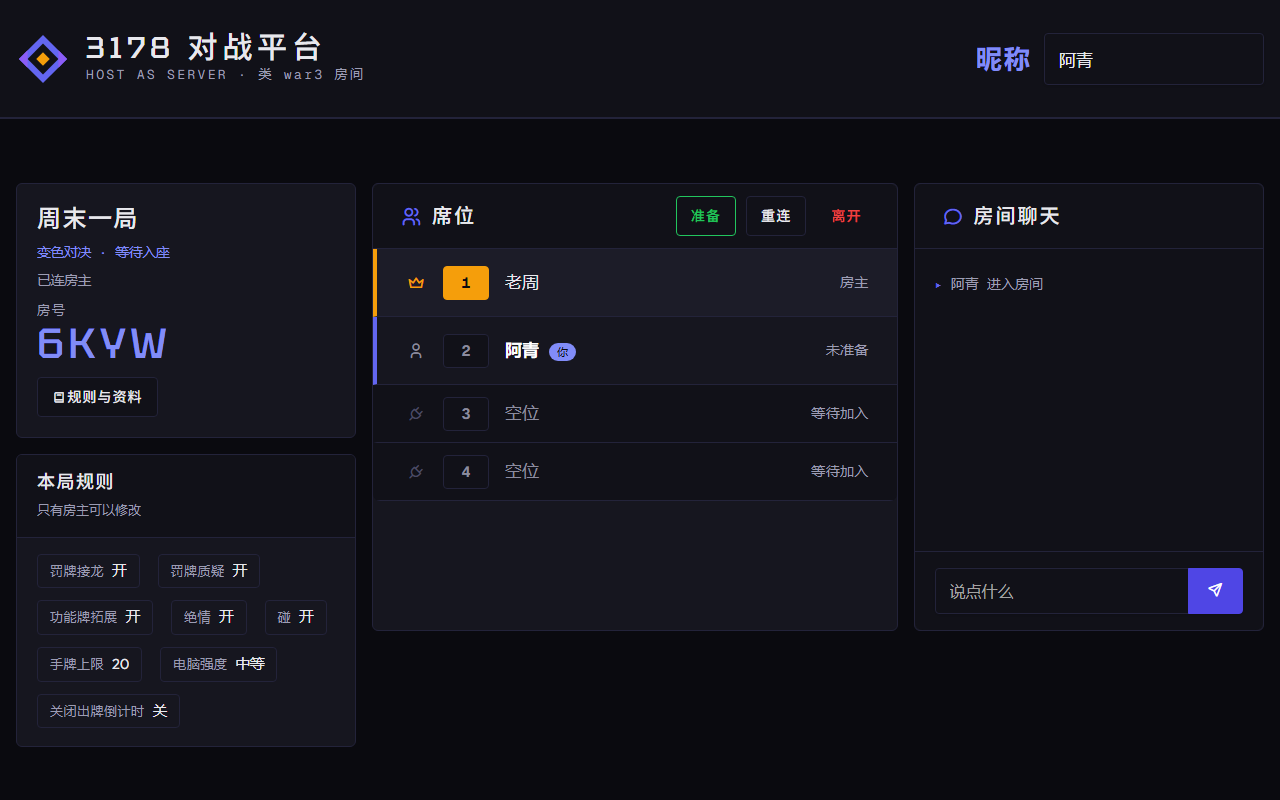
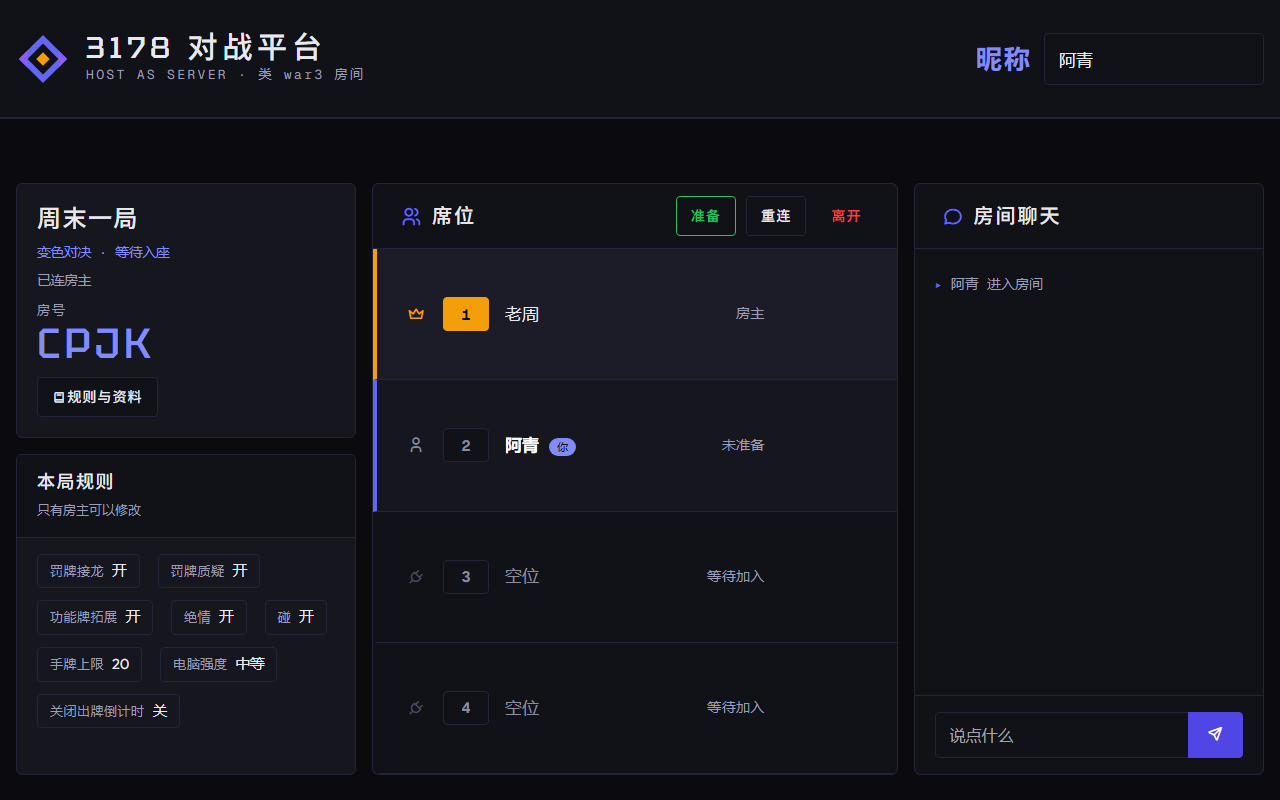
feat: 房间三栏等高与席位行内转交

diff --git a/packages/client/public/style.css b/packages/client/public/style.css
@@ -417,9 +417,10 @@ option:disabled {
 /* ---------- 房间布局：lobby 左栏房信息 + 房主台，右侧席位与聊天并排；playing 对局区拉通 ---------- */
 .room-layout { margin-left: 0; margin-right: 0; }
 .room-layout:not(.is-playing) {
+  --bp-room-col-h: clamp(520px, calc(100vh - 208px), 760px);
   display: grid;
   grid-template-columns: minmax(300px, 340px) minmax(0, 3fr) minmax(0, 2fr);
-  align-items: start;
+  align-items: stretch;
   gap: 16px;
 }
 .room-layout:not(.is-playing) #room-left {
@@ -429,8 +430,25 @@ option:disabled {
   flex-direction: column;
   gap: 16px;
   min-width: 0;
+  height: var(--bp-room-col-h);
 }
 .room-left-slot:empty { display: none; }
+.room-layout:not(.is-playing) #room-left:not(.has-console) { height: auto; }
+.room-layout:not(.is-playing) #room-left-host {
+  flex: 1 1 auto;
+  min-height: 0;
+  display: flex;
+}
+.room-layout:not(.is-playing) #room-left-host .host-console {
+  flex: 1 1 auto;
+  min-height: 0;
+}
+.room-layout:not(.is-playing) #room-left-host .host-console-body {
+  flex: 1 1 auto;
+  align-content: start;
+  min-height: 0;
+  overflow-y: auto;
+}
 .room-layout:not(.is-playing) .room-head {
   display: grid;
   grid-template-columns: minmax(0, 1fr) auto;
@@ -452,17 +470,22 @@ option:disabled {
   grid-column: 2;
   grid-row: 1;
   min-width: 0;
-  height: clamp(420px, 56vh, 600px);
+  height: var(--bp-room-col-h);
 }
 .room-layout:not(.is-playing) #chat-panel {
   grid-column: 3;
   grid-row: 1;
   min-width: 0;
-  height: clamp(420px, 56vh, 600px);
+  height: var(--bp-room-col-h);
 }
 .room-layout:not(.is-playing) #seat-column > .bp-panel,
 .room-layout:not(.is-playing) #chat-panel > .bp-panel { height: 100%; }
-.room-layout:not(.is-playing) #seat-grid { overflow-y: auto; }
+.room-layout:not(.is-playing) #seat-grid {
+  display: grid;
+  flex: 1 1 auto;
+  grid-auto-rows: minmax(var(--bp-row), 1fr);
+  overflow-y: auto;
+}
 .room-layout:not(.is-playing) #chat-panel .chat-log { flex: 1 1 auto; min-height: 0; }
 .room-layout:not(.is-playing) #room-left .host-console-head {
   flex-direction: column;
@@ -598,7 +621,9 @@ option:disabled {
 @media (max-width: 991.98px) {
   .room-head { flex-wrap: wrap; gap: 18px 28px; padding: 20px; }
   .room-layout:not(.is-playing) { grid-template-columns: minmax(0, 1fr); }
-  .room-layout:not(.is-playing) #room-left { grid-column: 1; grid-row: 1; }
+  .room-layout:not(.is-playing) #room-left { grid-column: 1; grid-row: 1; height: auto; }
+  .room-layout:not(.is-playing) #room-left-host { flex: none; }
+  .room-layout:not(.is-playing) #room-left-host .host-console-body { flex: none; overflow: visible; }
   .room-layout:not(.is-playing) #seat-column { grid-column: 1; grid-row: 2; height: clamp(340px, 48vh, 520px); }
   .room-layout:not(.is-playing) #chat-panel { grid-column: 1; grid-row: 3; height: clamp(340px, 48vh, 520px); }
   .host-console.has-rules.is-host .host-console-body { grid-template-columns: minmax(0, 1fr); }
@@ -639,6 +664,15 @@ option:disabled {
 }
 .seat-name { flex: 1; min-width: 0; overflow-wrap: anywhere; }
 .seat-state { font: 13.5px/1 var(--bp-font-mono); letter-spacing: 0.06em; color: var(--bp-dim-hi); }
+/* 行内控件按固定列对齐：状态列同宽，右侧永远给动作留一列。 */
+.room-layout:not(.is-playing) .seat {
+  display: grid;
+  grid-template-columns: 22px 46px minmax(0, 1fr) 72px minmax(88px, auto);
+}
+.room-layout:not(.is-playing) .seat-state { text-align: right; white-space: nowrap; }
+.room-layout:not(.is-playing) .seat-transfer-button,
+.room-layout:not(.is-playing) .seat-ai-difficulty { justify-self: end; }
+
 /* 左轨优先级：身份（房主）> 状态（已准备）> 角色默认。靠特异度，不靠书写顺序。 */
 .seat-player { border-left-color: var(--bp-accent); }
 .seat-ai { border-left-color: var(--bp-violet); border-left-style: dashed; }
@@ -661,7 +695,7 @@ option:disabled {
 .is-offline { color: var(--bp-dim); }
 .is-offline .seat-state { color: var(--bp-bad); }
 .seat-empty {
-  min-height: 58px;
+  min-height: var(--bp-row);
   color: var(--bp-dim);
   background: var(--bp-panel-alt);
 }
@@ -889,3 +923,9 @@ option:disabled {
   border-radius: 4px;
 }
 .seat-ai-difficulty:disabled { opacity: 0.75; }
+.seat-transfer-button {
+  flex: none;
+  height: 32px;
+  padding: 0 10px;
+  font-size: 13px;
+}

diff --git a/packages/client/src/app.ts b/packages/client/src/app.ts
@@ -389,7 +389,10 @@ export class PlatformApp {
     });
     on('btn-send', 'click', () => this.sendChat());
     on('btn-leave', 'click', () => {
-      if (isHost(this.view)) return this.setStatus('你是房主：要么移交房主，要么关闭房间，不能直接走。');
+      if (isHost(this.view)) {
+        this.command({ type: 'hostClose', reason: '房主解散房间' });
+        return;
+      }
       this.command({ type: 'seatLeave' });
       this.leaveToLobby();
     });
@@ -665,6 +668,7 @@ export class PlatformApp {
     const host = isHost(this.view);
     const show = Boolean(this.view.room) && (Boolean(spec) || host);
     panel.classList.toggle('hidden', !show);
+    el(this.doc, 'room-left')?.classList.toggle('has-console', show);
     panel.classList.toggle('has-rules', Boolean(spec));
     panel.classList.toggle('is-host', host);
     el(this.doc, 'rule-config')?.classList.toggle('hidden', !spec);
@@ -786,6 +790,20 @@ export class PlatformApp {
       this.command({ type: 'hostSeat', op: 'setOptions', seatId: seat.seatId, options });
     });
     row.append(select);
+  }
+
+  private attachSeatTransfer(row: HTMLElement, seat: SeatView): void {
+    if (!isHost(this.view) || this.view.phase !== 'lobby' || seat.role !== 'player') return;
+    const button = this.doc.createElement('button');
+    button.type = 'button';
+    button.className = 'btn btn-sm btn-outline-secondary seat-transfer-button';
+    button.textContent = '转交房主';
+    button.title = `把房主转交给 ${seat.name}`;
+    button.setAttribute('aria-label', `把房主转交给 ${seat.name}`);
+    button.addEventListener('click', () => {
+      this.command({ type: 'hostTransfer', seatId: seat.seatId });
+    });
+    row.append(button);
   }
 
   private currentReferenceManifest(): GameManifest | null {
@@ -1083,6 +1101,7 @@ export class PlatformApp {
       const row = pushRow(classes.join(' '), seat.slot, seat.name, this.seatStateText(seat), seatLabel(seat), icon);
       this.attachSeatColor(row, seat);
       this.attachAiDifficulty(row, seat);
+      this.attachSeatTransfer(row, seat);
     }
     for (const slot of emptySlots(this.view)) {
       pushRow('seat seat-empty', slot, '空位', '等待加入', `${slot} 号位空着`, 'ti-plug');
@@ -1149,6 +1168,14 @@ export class PlatformApp {
           ? `等准备：${blockers.unready.join('、')}`
           : '开始对局';
     }
+    const leaveButton = el(this.doc, 'btn-leave') as HTMLButtonElement | null;
+    if (leaveButton) {
+      const host = isHost(this.view);
+      leaveButton.textContent = host ? '解散房间' : '离开';
+      leaveButton.title = host ? '关闭房间，所有人回到大厅' : '离开座位，回到大厅';
+    }
+    // lobby 用席位行里的「转交房主」；对局中席位压成状态条，退回房主台的下拉。
+    el(this.doc, 'host-transfer-control')?.classList.toggle('hidden', this.view.phase === 'lobby');
     const readyButton = el(this.doc, 'btn-ready') as HTMLButtonElement | null;
     const seat = mySeat(this.view);
     if (readyButton) {

diff --git a/packages/client/public/index.html b/packages/client/public/index.html
@@ -190,7 +190,7 @@
                           <div class="host-actions-body d-grid gap-3">
                             <button id="btn-add-ai" class="btn btn-outline-secondary"><i class="ti ti-robot me-2" aria-hidden="true"></i>加一个电脑位</button>
 
-                            <div>
+                            <div id="host-transfer-control">
                               <label class="form-label" for="transfer-target">移交房主</label>
                               <div class="input-group">
                                 <select id="transfer-target" class="form-select"></select>

diff --git a/CONTEXT.md b/CONTEXT.md
@@ -29,7 +29,7 @@
 - 包边界：`@lizardon386/core-abi`（游戏 ABI）· `@bp/protocol`（wire）· `@lizardon386/pack-format`（.bpmap）· `@lizardon386/game-sdk`（公共门面 + game-kit）· `@lizardon386/sdk-tools`（bpmap CLI / doctor / 模板）。平台包仍是 `@bp/server`、`@bp/client`、`@bp/hostd`、`@bp/testkit`。
 - 游戏下发与兼容闸：`/api/games`、`/games/<id>/*`、客户端 SHA-256 校验（无 `crypto.subtle` 时纯 JS 回退）、`sandbox=allow-scripts` iframe；`mode` / `apiVersion` 写入 `.bpmap` 包头，宿主只加载 `turn` / `1`，`/api/version` 与 `bpmap doctor` 用同一组常量；`fixture-kit` 覆盖事件流 / 资源 / 拒绝。
 - **座位级选项**（SDK 0.4.0 契约 `c326314`）：`SeatOptionsSpec` / `parseSeatOptions`，`SeatView.options` / `GameSeatInfo.options`，`hostSeat {op:'setOptions'}`；平台把颜色直接映射到席位左侧色条/图标/号码牌，房主点号码牌选色；电脑行内显示难度下拉，无通用“设置”按钮；只房主、只 lobby，服务端用游戏 `normalizeSeatOptions`/spec 收口，`RoomExport` 随座位持久化。1280×800 截图 [seat-options-1280.png](docs/images/seat-options-1280.png)。232/232。
-- 房间 UI 增量：lobby 改三栏——左栏房间信息 + 「本局规则与房主操作」控制台，右侧席位/聊天等高并排；非房主左栏只保留只读规则摘要，房主操作/开局/邀请/颜色入口/难度下拉全部隐藏。`playing` 时房间头移到顶部，游戏区拉通整行，席位横向状态条，聊天/控制台进右侧侧栏（`D` / `Esc`，焦点归还）；无 deadline 不显示倒计时块；“规则与资料”改为接近全屏双栏弹层。1280×800 实测游戏区 1248×560、席位/聊天 448 高；截图 [房主](docs/images/room-host-lobby-1280.png) / [非房主](docs/images/room-guest-lobby-1280.png) / [对局中](docs/images/room-playing-1280.png)。房间页「本局规则」卡由房主在 lobby 编辑（`ruleConfig` 命令，非房主 HOSTONLY），改后刷新 `RoomView.config` / `rulesHash`、重置真人 ready 并发系统消息；`RoomExport.config` 落盘，重启保持。`manifest.reference` 首次展开才请求，`parseGameReference` 校验，文本用 `textContent`、图片走 `/games`，图片 404 显示 alt，失败只影响面板。服务端在模块加载时还会校验 `ruleConfig` / `reference` 文档，坏声明跳过并记 `errors`；`manifestOf` 再挡一次；包头与模块 reference 不一致拒绝加载。
+- 房间 UI 增量：lobby 改三栏——左栏房间信息 + 「本局规则与房主操作」控制台，右侧席位/聊天并排；三栏共用 `clamp(520px, calc(100vh - 208px), 760px)` 高度（1280×800 实测 592px），左栏控制台内部滚动，席位行固定列对齐。非房主左栏只保留只读规则摘要，房主操作/开局/邀请/颜色入口/难度下拉全部隐藏。房主顶部按钮改为「解散房间」（直接 hostClose），真人席位行右侧由房主直接「转交房主」，状态列与动作列对齐。`playing` 时房间头移到顶部，游戏区拉通整行，席位横向状态条，聊天/控制台进右侧侧栏（`D` / `Esc`，焦点归还）；无 deadline 不显示倒计时块；“规则与资料”改为接近全屏双栏弹层。1280×800 实测游戏区 1248×560；截图 [房主](docs/images/room-host-lobby-1280.png) / [非房主](docs/images/room-guest-lobby-1280.png) / [对局中](docs/images/room-playing-1280.png)。房间页「本局规则」卡由房主在 lobby 编辑（`ruleConfig` 命令，非房主 HOSTONLY），改后刷新 `RoomView.config` / `rulesHash`、重置真人 ready 并发系统消息；`RoomExport.config` 落盘，重启保持。`manifest.reference` 首次展开才请求，`parseGameReference` 校验，文本用 `textContent`、图片走 `/games`，图片 404 显示 alt，失败只影响面板。服务端在模块加载时还会校验 `ruleConfig` / `reference` 文档，坏声明跳过并记 `errors`；`manifestOf` 再挡一次；包头与模块 reference 不一致拒绝加载。
 - 单入口壳：根目录只有 `3178对战平台.bat`，启动 `cli.js shell`；先只开 `127.0.0.1:3178` 与本机大厅，点「建房」时调 `/api/host/ready` 再开 `0.0.0.0:3000`、组播与 `HostStore`。纯进房不创建 `HostStore`、不写 `data/`；建房后 `run-<port>.json` / `stop` / `diagnose` 与旧入口一致。`host` / `join` 子命令保留给命令行。
 - SDK 0.3.0 已发 npm（四包 `@lizardon386/*`，`latest` 均为 0.3.0，2026-10-29）；Trusted Publisher + [publish-sdk.yml](.github/workflows/publish-sdk.yml) 的首次真实 CI 发布已绿；`sdk-v0.3.0` tag/Release 已建（Release 资产来自 `dist-sdk/`，含 SHA256SUMS）。`sdk-v0.2.0` 保留可回退。**SDK 0.4.0 座位选项契约已在仓库（`c326314`），未打包/未发 npm/未打 tag**；游戏侧需本地 link 0.4.0。
[1 lines of base64/hex data omitted]

diff --git a/DESIGN.md b/DESIGN.md
@@ -261,9 +261,9 @@ stateDiagram-v2
 
 ### 4.5 房间界面：对局区、规则与资料
 
-- **lobby 三栏**：左栏放房间信息与「本局规则与房主操作」控制台（房主可编辑规则和管理房间，非房主只读规则），右侧席位与聊天等高并排。进入 `playing` 后房间头移到顶部，游戏区拉通整行，席位压成横向状态条，聊天与同一控制台收进右侧抽屉，默认收起；按钮、`D` 键和 `Esc` 都能操作，关闭时焦点回到触发按钮。没有 deadline 时不显示倒计时块。
+- **lobby 三栏等高**：左栏放房间信息与「本局规则与房主操作」控制台（房主可编辑规则和管理房间，非房主只读规则），右侧席位与聊天并排；三栏共用 `calc(100vh - 208px)` 的高度，桌面底边对齐，左栏控制台在栏内滚动。席位行按固定列对齐：状态列同宽，最右侧留动作列；真人席位行由房主直接点「转交房主」，房主的顶部按钮是「解散房间」而不是无意义的「离开」。进入 `playing` 后房间头移到顶部，游戏区拉通整行，席位压成横向状态条，聊天与同一控制台收进右侧抽屉，默认收起；按钮、`D` 键和 `Esc` 都能操作，关闭时焦点回到触发按钮。没有 deadline 时不显示倒计时块。
 - **非房主视图**：左栏只保留房间名/房号/连接状态和规则摘要，开局、加电脑位、移交、请出、邀请和关房全部隐藏；座位号码牌不是颜色入口，电脑难度下拉也不会出现。席位与聊天位置和房主一致，`lobby` 只多一个「准备」按钮。截图见 [room-guest-lobby-1280.png](docs/images/room-guest-lobby-1280.png)。
-- **桌面实测**：1280×800 下游戏区 1248×560（席位/聊天 448 高）；低于 1100px 宽的桌面不在本档验收范围。
+- **桌面实测**：1280×800 下三栏同高 592px，游戏区 1248×560；低于 1100px 宽的桌面不在本档验收范围。
 - **本局规则**：房间页在 `manifest.ruleConfig` 存在时在房主控制台里显示规则区；房主在 `lobby` 阶段可编辑，其他人只读，`playing` 后一律只读。修改走房主专用 `ruleConfig`，服务端用 `normalizeConfig` / `rulesHashOf` 重算，推进 revision，并把所有真人 ready 清零、发系统消息「房规已更新，请重新准备」。`RoomView.config` 与 `rulesHash` 随快照广播，后加入者从 `seatGranted` 的 manifest 和首个快照拿到新值；`RoomExport.config` 落盘，恢复后规则保持。平台不改 `normalizeConfig`，非法值仍由游戏兜底。
 - **座位级选项**：`GameModule.seatOptions` 声明每个座位可配的字段（`roles` 过滤）。颜色字段直接驱动席位行的左侧色条/图标/号码牌，房主在 lobby 点号码牌选色；电脑座位在行内显示难度下拉；不再有通用“设置”按钮。变更走 `hostSeat {op:'setOptions'}`；只房主、只 lobby，服务端用 `normalizeSeatOptions` 或声明默认值收口，`SeatView.options` / `GameSeatInfo.options` 透传，`RoomExport` 随座位持久化。平台不解释 field 的玩法含义。
 - **资料面板**：`manifest.reference.entry` 指向包内 JSON，第一次展开才请求 `/games/<id>/<entry>`，用 `parseGameReference` 校验；主界面和房间共用接近全屏的双栏弹层。只渲染纯文本与图片，文本走 `textContent`，不解析 HTML；图片走现有 `/games` 路由，`..`、绝对路径和反斜杠一律拒绝。图片 404 时用 `onerror` 显示 alt 文案；读取失败只在面板里说明，不影响对局。

diff --git a/README.md b/README.md
@@ -52,7 +52,7 @@
 
 1. **房主**：先在大厅填好昵称，再填房名、选游戏、定座位数 → 点「建房并坐 1 号位」，界面上出现四位房号。本机页面始终是 `127.0.0.1:3178`；房主页在「邀请链接」下面会列出局域网地址，那是给朋友的入口。
 2. **客人**：另一台机器双击「3178对战平台.bat」，先填昵称，再填房主地址（房主页列出的局域网地址，或隧道网址）+ 房号；或者直接点房主发来的邀请链接，地址和房号都替你填好，昵称仍要先填。进别人的房不用先选游戏，房间用哪款游戏由房主决定。
-3. 进房后左栏是房间信息和「本局规则与房主操作」；房主在这里改规则，只有 `lobby` 阶段能改，改完所有真人会回到未准备，需要重新准备。客人左栏只剩房间信息和只读规则摘要，没有开局、邀请、移交这些房主按钮。游戏声明了座位选项时，房主点座位号码牌改颜色，电脑座位行内直接改难度；真人座位不显示难度和设置按钮。
+3. 进房后左栏是房间信息和「本局规则与房主操作」；房主在这里改规则，只有 `lobby` 阶段能改，改完所有真人会回到未准备，需要重新准备。客人左栏只剩房间信息和只读规则摘要，没有开局、邀请、移交这些房主按钮。房主不能直接离开，顶部按钮是「解散房间」；真人的席位行右侧有「转交房主」。游戏声明了座位选项时，房主点座位号码牌改颜色，电脑座位行内直接改难度；真人座位不显示难度和设置按钮。
 4. 各自点「准备」，房主的「开始对局」变亮后开局。人不够时按钮上会写明“等准备：谁”。
 5. **掉线 / 关页面 / 换设备**：浏览器数据还在就会自动坐回原位；票据失效时界面会说明原因，不会只丢一句错误码。
 
